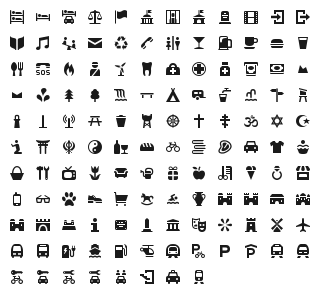
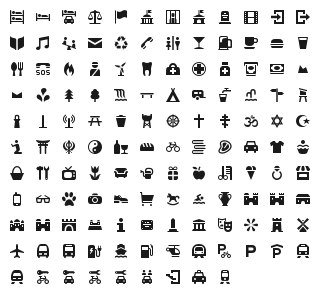
added photo shop

diff --git a/font/osmic-preview.html b/font/osmic-preview.html
@@ -247,6 +247,7 @@
 .oc-peak:before,
 .oc-pet:before,
 .oc-pharmacy:before,
+.oc-photo:before,
 .oc-place-of-worship:before,
 .oc-playground:before,
 .oc-police:before,
@@ -389,6 +390,7 @@
 .oc-peak:before { content: "\f14b"; }
 .oc-pet:before { content: "\f14c"; }
 .oc-pharmacy:before { content: "\f14d"; }
+.oc-photo:before { content: "\f181"; }
 .oc-place-of-worship:before { content: "\f14e"; }
 .oc-playground:before { content: "\f14f"; }
 .oc-police:before { content: "\f150"; }
@@ -445,7 +447,7 @@
   <body class="characters-off">
     <div id="page" class="container">
       <header>
-        <h1>osmic contains 128 glyphs:</h1>
+        <h1>osmic contains 129 glyphs:</h1>
         <a onclick="toggleCharacters(); return false;" href="#">Toggle Preview Characters</a>
       </header>
 
@@ -1578,6 +1580,19 @@
         <div class="usage">
           <input class="class" type="text" readonly="readonly" onClick="this.select();" value=".oc-pharmacy" />
           <input class="point" type="text" readonly="readonly" onClick="this.select();" value="&amp;#xf14d;" />
+        </div>
+      </div>
+      
+      <div class="glyph">
+        <div class="preview-glyphs">
+          <span class="step size-12"><span class="letters">Pp</span><i id="oc-photo" class="oc-photo"></i></span><span class="step size-14"><span class="letters">Pp</span><i id="oc-photo" class="oc-photo"></i></span><span class="step size-16"><span class="letters">Pp</span><i id="oc-photo" class="oc-photo"></i></span><span class="step size-18"><span class="letters">Pp</span><i id="oc-photo" class="oc-photo"></i></span><span class="step size-21"><span class="letters">Pp</span><i id="oc-photo" class="oc-photo"></i></span><span class="step size-24"><span class="letters">Pp</span><i id="oc-photo" class="oc-photo"></i></span><span class="step size-36"><span class="letters">Pp</span><i id="oc-photo" class="oc-photo"></i></span><span class="step size-48"><span class="letters">Pp</span><i id="oc-photo" class="oc-photo"></i></span><span class="step size-60"><span class="letters">Pp</span><i id="oc-photo" class="oc-photo"></i></span><span class="step size-72"><span class="letters">Pp</span><i id="oc-photo" class="oc-photo"></i></span>
+        </div>
+        <div class="preview-scale">
+          <span class="step">12</span><span class="step">14</span><span class="step">16</span><span class="step">18</span><span class="step">21</span><span class="step">24</span><span class="step">36</span><span class="step">48</span><span class="step">60</span><span class="step">72</span>
+        </div>
+        <div class="usage">
+          <input class="class" type="text" readonly="readonly" onClick="this.select();" value=".oc-photo" />
+          <input class="point" type="text" readonly="readonly" onClick="this.select();" value="&amp;#xf181;" />
         </div>
       </div>
       

diff --git a/font/osmic.css b/font/osmic.css
@@ -110,6 +110,7 @@
 .oc-peak:before,
 .oc-pet:before,
 .oc-pharmacy:before,
+.oc-photo:before,
 .oc-place-of-worship:before,
 .oc-playground:before,
 .oc-police:before,
@@ -252,6 +253,7 @@
 .oc-peak:before { content: "\f14b"; }
 .oc-pet:before { content: "\f14c"; }
 .oc-pharmacy:before { content: "\f14d"; }
+.oc-photo:before { content: "\f181"; }
 .oc-place-of-worship:before { content: "\f14e"; }
 .oc-playground:before { content: "\f14f"; }
 .oc-police:before { content: "\f150"; }
